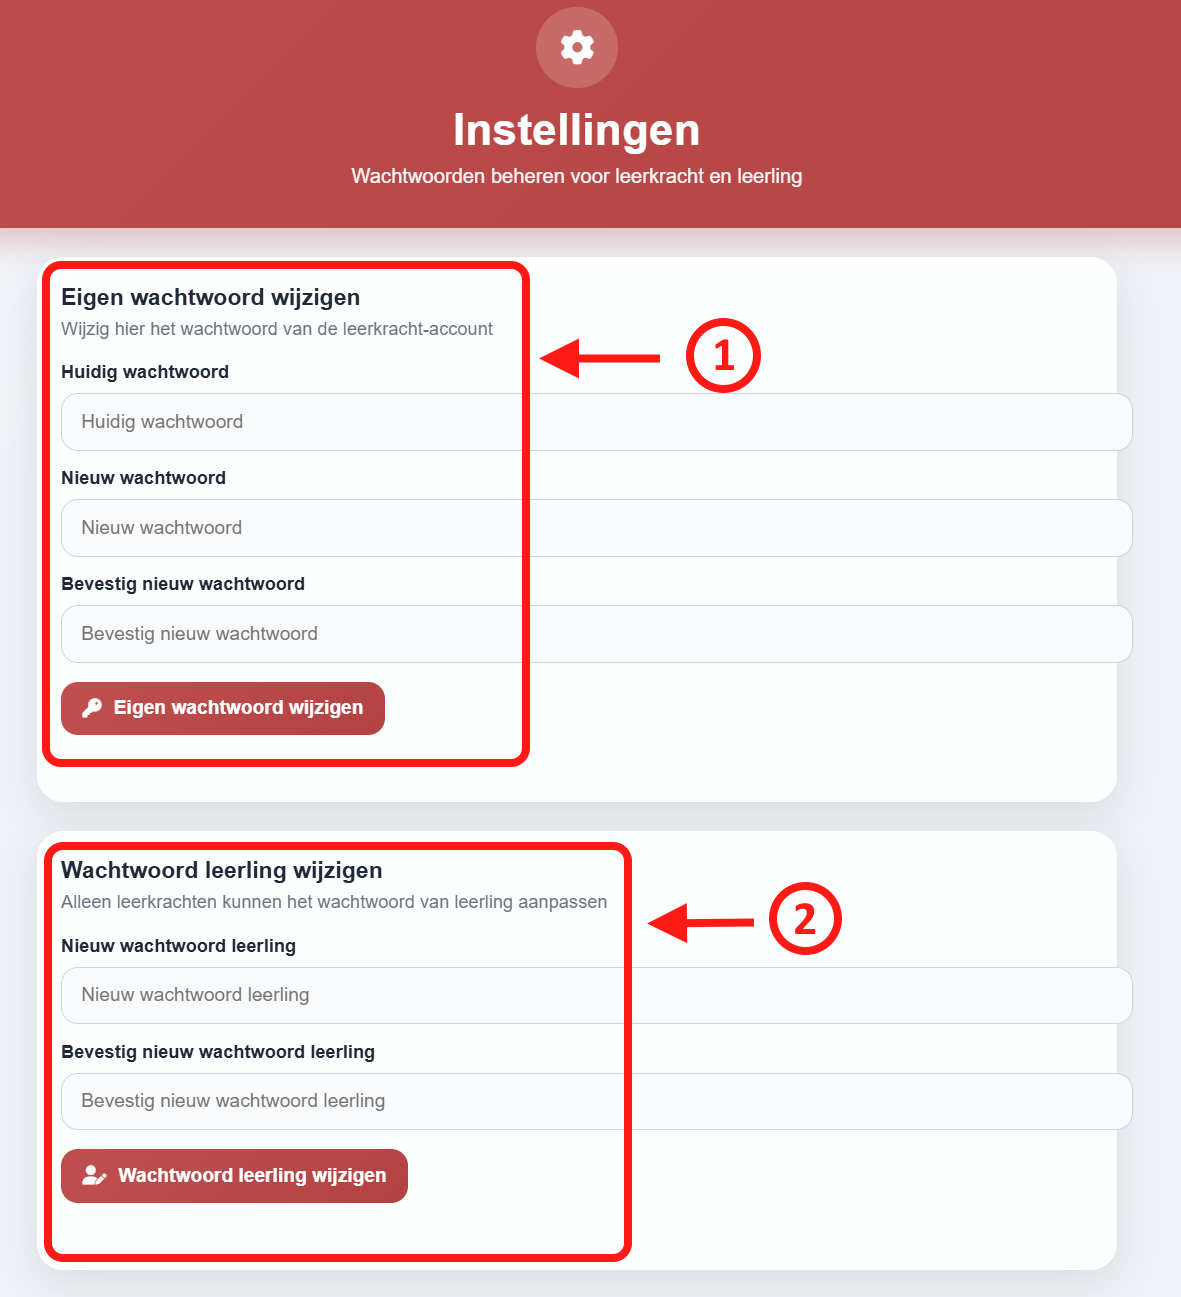
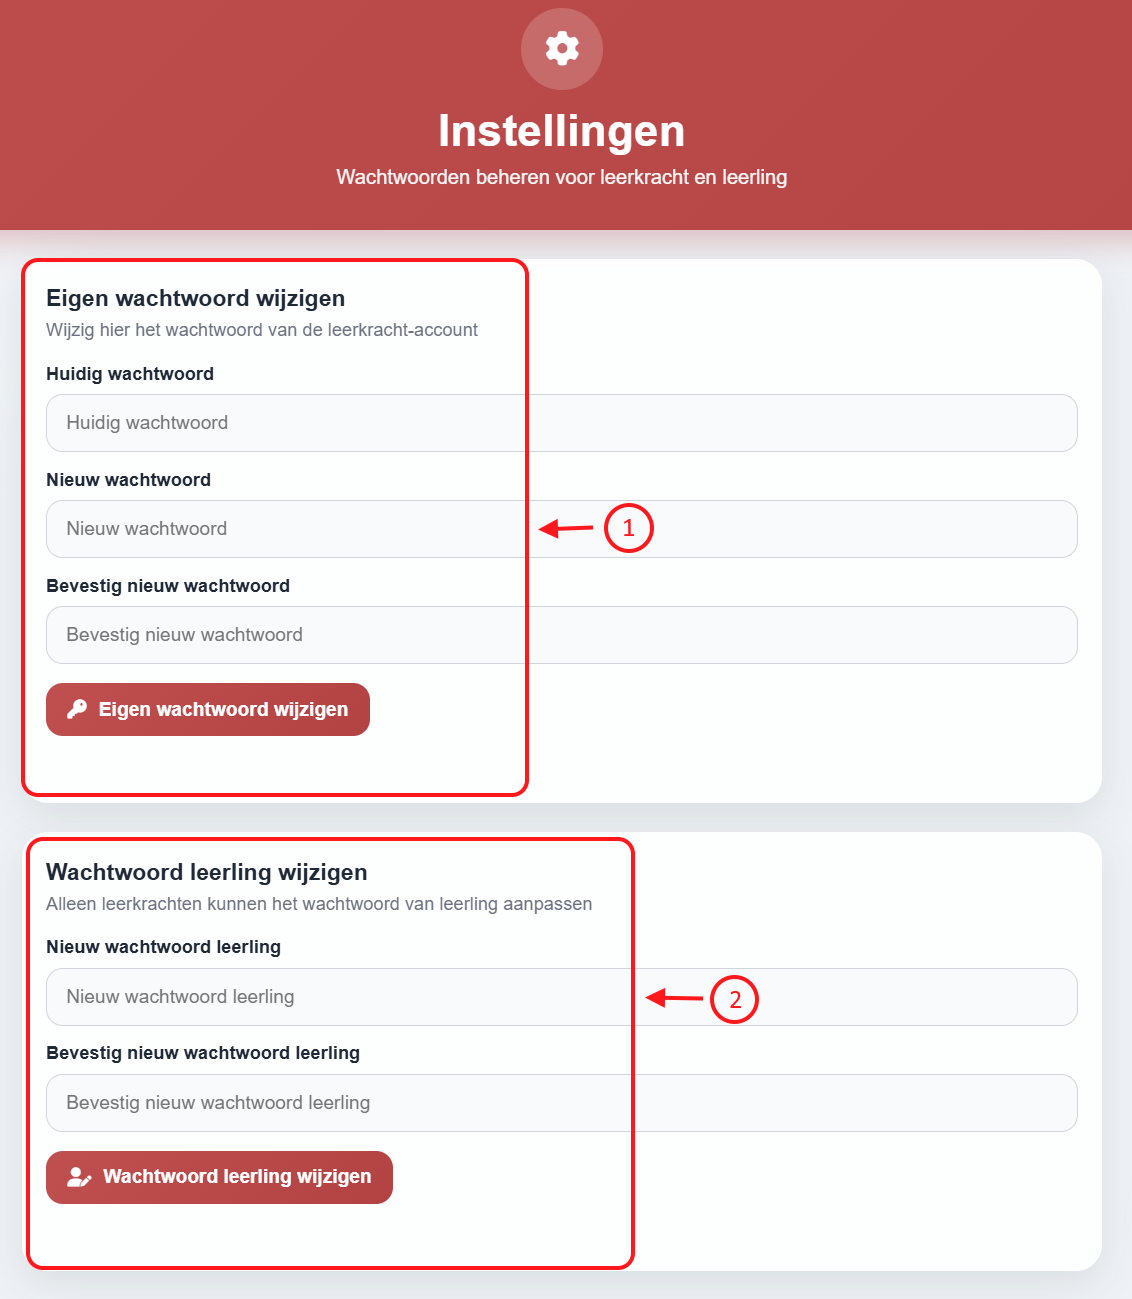
Toevoegingen en aanpassingen voor nieuwe look website aan gebruikershandleiding.

Changed region(s): [[0.0, 0.185, 0.7111, 0.9869], [0.3092, 0.0, 0.7111, 0.1542], [0.9276, 0.8019, 0.9585, 0.8327]]

diff --git a/handleidingen/Gebruikershandleiding.md b/handleidingen/Gebruikershandleiding.md
@@ -4,23 +4,26 @@
 Dit bestand bevat een uitgebreide handleiding bestemd voor de gebruiker van het systeem, er zullen geen technische details of diepgang voorkomen. Er zal gesproken worden over de installatie, gebruik, onderhoud en FAQ.
 
 ## Installatie
-# Moet zeker nog naar gekeken worden (installatie raspberry Pi).
 ### **Knop**
 De knop installeren gebeurt heel eenvoudig.
 1.	Steek de knophouder in het gat van de oranje schijf.
 2.	Klik de knop op de schijf met behulp van de ingebouwde magneet.
-3.	Schuif de knophouder over de afstandsbediening van het bed of over andere passende objecten.
+3.	Schuif de knophouder over de afstandsbediening van het bed of over andere passende objecten, er kan ook gebruik gemaakt worden van een koord.
 4.	De knop zou standaard al in het systeem moeten zitten waardoor deze meteen bruikbaar zou moeten zijn.
 
-### **Signalisatielamp**
-Indien de componenten nog moeten aangesloten worden, gaat dit eenvoudig.
-1.	Plaats de powerbank in het daarvoor bestemde vak in de behuizing.
-2.	Plaats de microcontroller in het daarvoor bestemde vak in de behuizing.
-3.	Verbind de kabel en ga van de “Output-A” poort van de powerbank naar de “USB” poort van de microcontroller.
-4.	Druk op de powerknop van de powerbank zodat deze ingeschakeld is.
-5.	Bind de kabel vast met een spanband in de voorziene gaten.
-6.	Schuif het deksel van de behuizing dicht.
-7.	Nu kan de behuizing opgehangen met worden aan de voorziene plaats aan de muur.
+### **Applicatie**
+De applicatie installeren gebeurt heel eenvoudig.
+1. Surf naar [verpleegkunde.voltlab.net](https://verpleegkunde.voltlab.net) op een browser applicatie.
+2. Log in (hoofdstuk Inloggen).<br>
+<img src="../handleidingen/afbeeldingen/AfbeeldingUM7.png" height="auto" width="240">
+3. Druk op de drie puntjes rechtsboven.<br>
+<img src="../handleidingen/afbeeldingen/AfbeeldingUM8.png" height="auto" width="240">
+4. Druk op toevoegen aan startscherm, dit zou de installatie moeten starten.
+<br>
+<img src="../handleidingen/afbeeldingen/AfbeeldingUM9.png" height="auto" width="180">
+5. Nu moet onderstaand icoon zichtbaar moeten zijn op het startscherm.
+<br>
+<img src="../handleidingen/afbeeldingen/AfbeeldingUM10.png" height="auto" width="120">
 
 ## Gebruik knop
 Bij iedere melding of verandering in de app, krijgt iedere medewerker (docent en student) die op dat moment zijn ingelogd een bijhorende melding.
@@ -66,7 +69,7 @@ Bij iedere melding of verandering in de app, krijgt iedere medewerker (docent en
 ### **Inloggen**
 Als u surft naar https://verpleegkunde.voltlab.net of de applicatie opent komt u op onderstaand scherm terecht.
  
-<img src="../handleidingen/afbeeldingen/AfbeeldingUM4.png" height="auto" width="400"><br>
+<img src="../handleidingen/afbeeldingen/AfbeeldingUM4.png" height="auto" width="400">
 
 1.  In het vak “Gebruikersnaam” vult u een bestaande gebruikersnaam in. Indien u een leerling bent vult u “Leerling” in, indien u een leerkracht bent vult u “Leerkracht” in.
 
@@ -82,17 +85,17 @@ Wanneer u ingelogd bent als leerling krijgt u onderstaand overzicht.
  
 1.  **Overzicht aanvragen:** Hier is de totale som van alle aanvragen te zien. De hoeveelheid “Hulp gevraagd” en “Collega aanwezig” meldingen zijn hier terug te vinden.
 
-2.  **Overzicht kamers:** Hier is een overzichtelijke weergave van de kamers terug te vinden. Per kamer is er een vak per bed, deze veranderen van kleur en melding afhankelijk van het gebruik van de bijhorende knop. Op deze manier is alles makkelijk bij te houden.
+2.  **Overzicht kamers:** Hier is een overzichtelijke weergave van de kamers terug te vinden. Per kamer en per bed zijn er vakken voorzien, deze veranderen van kleur en melding afhankelijk van het gebruik van de bijhorende knop. Op deze manier is alles makkelijk bij te houden.
 
 3.  **Legende:** Een kleuren legende met informatie over de meldingen.
 
-4.  **Meldingen inschakelen:** Deze knop moet ingedrukt worden ingeschakeld om notificaties op een telefoon of andere toestellen te kunnen ontvangen.<br>
+4.  **Meldingen inschakelen:** Deze knop moet ingedrukt worden om notificaties op een telefoon of andere toestellen te kunnen ontvangen.<br>
 **OPGELET: Het is enkel mogelijk om notificaties te ontvangen met de applicatie niet met de website.**
 
-5.  **Uitloggen:** Met deze knop kunt u uitloggen, na het uitloggen ontvangt u geen meldingen.
+1.  **Uitloggen:** Met deze knop kunt u uitloggen, na het uitloggen ontvangt u geen meldingen meer.
 
 ### **Overzicht (leerkracht)**
-Het overzicht van een leerkracht is gelijkaardig aan dat van een leerling. Een leerkracht ziet de knop “Instellingen staan naast de “Meldingen inschakelen” knop. Wanneer deze wordt ingedrukt komt u op het onderstaande menu terecht.
+Het overzicht van een leerkracht is gelijkaardig aan dat van een leerling. Een leerkracht ziet wel de knop “Instellingen” staan onder de “Meldingen inschakelen” knop. Wanneer deze wordt ingedrukt komt u op het onderstaande menu terecht.
 
 <img src="../handleidingen/afbeeldingen/AfbeeldingUM6.png" height="auto" width="600"><br>
  
@@ -100,6 +103,21 @@ Het overzicht van een leerkracht is gelijkaardig aan dat van een leerling. Een l
 
 2.  In deze vakken kunt u het algemeen wachtwoord voor het leerlingen account aanpassen. Dit gebeurt door twee keer het nieuwe wachtwoord in te vullen.<br>
 **OPGELET: De wachtwoorden zijn hoofdletter gevoelig.**
+
+## Gebruik signalisatie lamp  
+
+### **Aanschakelen**
+Het aanschakelen van de lamp gebeurt door 1x te drukken op de power knop van de powerbank. Deze knop kan eenvoudig bereikt worden door het gat in de behuizing.
+Indien u niet zeker bent of de lamp ingeschakeld is, kunt u altijd het deksel er vanaf schuiven en controleren of de lichtjes van de powerbank effectief aan zijn.<br>
+ <img src="../handleidingen/afbeeldingen/AfbeeldingUM11.png" height="auto" width="120">
+ <img src="../handleidingen/afbeeldingen/AfbeeldingUM3.png" height="auto" width="120">
+
+### **Uitschakelen**
+Het uitschakelen van de lamp gebeurt door 2x kort achtereenvolgens op de power knop van de powerbank te drukken.
+Indien u niet zeker bent of de lamp ingeschakeld is, kunt u ook weer het deksel er vanaf schuiven en controleren of de lichtjes van de powerbank effectief uit zijn.<br>
+ <img src="../handleidingen/afbeeldingen/AfbeeldingUM11.png" height="auto" width="120">
+ <img src="../handleidingen/afbeeldingen/AfbeeldingUM3.png" height="auto" width="120">
+
 
 ## Onderhoud
 ### **Lamp**
@@ -115,7 +133,7 @@ Aangezien de lampen werken met een powerbank, moeten deze tijdig her opgeladen w
 
 4.  Deze kabel kan nu gebruikt worden om de powerbank op te laden. U kunt de kabel makkelijker bereikbaar maken door deze door het voorziene gat in de behuizing te steken of u kunt gerust de powerbank uit de behuizing halen.
 
-    **OPGELET: Hiervoor zijn er een aantal belangrijke handelingen voor nodig die behandelt worden vanaf stap 8**. 
+    **OPGELET: Voor het uithalen van de powerbank zijn er een aantal belangrijke handelingen nodig die behandelt worden vanaf stap 8**. 
 
 5.  De status van het opladen kan gezien worden aan de bovenzijde van de powerbank.
  
@@ -158,13 +176,25 @@ Aangezien de knoppen op een batterij werken, moeten deze tijdig her opgeladen wo
 Q: De signalisatielamp werkt niet meer.
 <br>
 A: 
- - Controleer of de kabel van de powerbank naar de microcontroller correct is aangesloten.De kabel moet van de “Output-A” poort van de powerbank naar de “USB” poort van de microcontroller gaan.
+ - Controleer of de kabel van de powerbank naar de microcontroller correct is aangesloten. De kabel moet van de “Output-A” poort van de powerbank naar de “USB” poort van de microcontroller gaan.
 <br>
 
 Q: De knop reageert niet op de ledstrip en de website.
-
+<br>
 A:
-- Als hij heeft uitgestaan en hij reageert niet meer direct moet je op het kleine knopje drukken vanboven op de knop en dan als je nog een drukt zou hij normaal moeten reageren. 
+- Als de knop heeft uitgestaan en dezen niet meer reageert, moet u op het kleine knopje drukken aan de zijkant op van de knop. Als u vervolgens opnieuw probeert, zou het systeem moeten reageren.
+<br>
+
+Q: Ik kan niet inloggen.
+<br>
+A: 
+ - Controleer of u de gebruikersnaam en wachtwoord volledig correct ingeeft. Deze zijn hoofdlettergevoelig en spaties worden ook als verkeerd gezien.
+<br>
+
+Q: Ik krijg geen meldingen meer.
+<br>
+A: 
+ - Een gebruiker kan enkel meldingen ontvangen als deze de applicatie geïnstalleerd heeft. In de applicatie zelf moet de "Meldingen inschakelen" knop zeker ingedrukt worden, wanneer deze ingedrukt is moet er op "Meldingen toestaan" gedrukt worden zodat de applicatie toestemming krijgt om meldingen te verzenden. <br> Indien deze oplossingen niet hielpen, kunt u altijd de applicatie opnieuw installeren.
 <br>
 
 